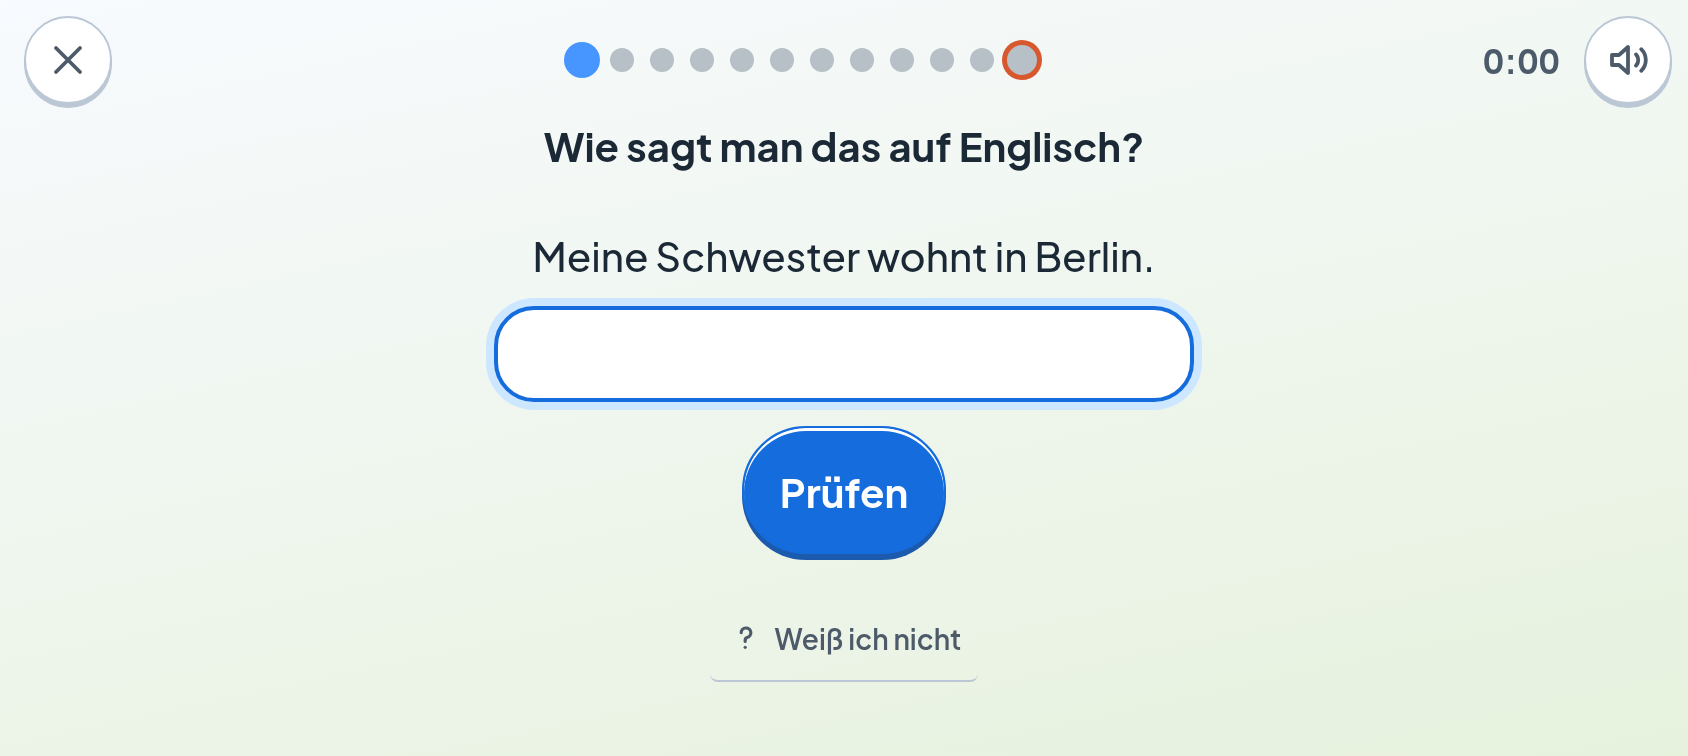
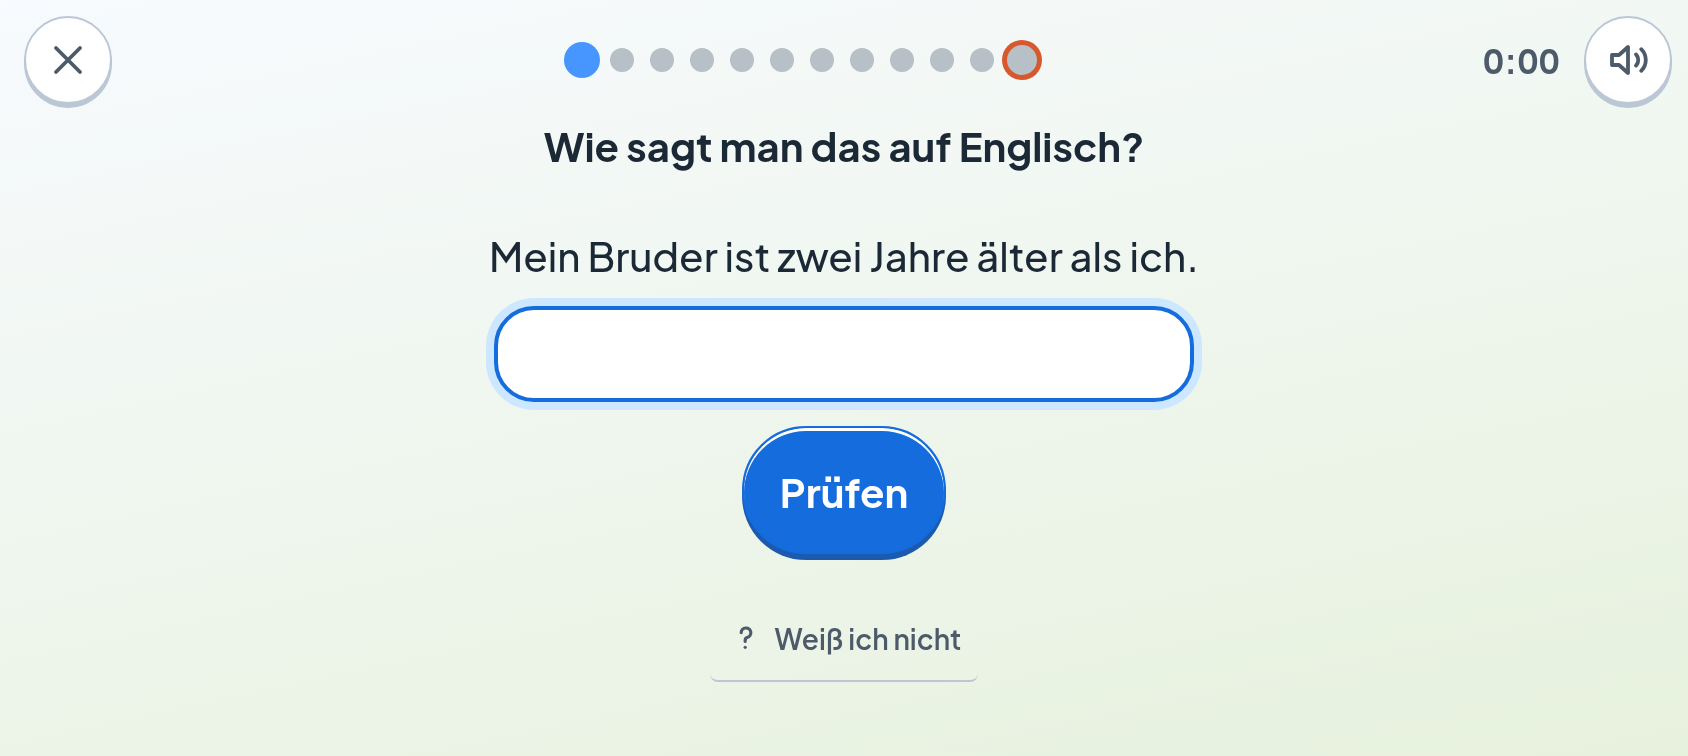
E17: hundert Wendungen, sechzig Diktatsaetze - und eine Zahl, die ich gestern falsch erklaert habe
DER VORRAT

60 Wendungen bei zwoelf Aufgaben je Sitzung sind fuenf Runden; danach
wiederholt sich alles. Vierzig dazu, ZEHN JE BEREICH - nicht vierzig
irgendwohin, denn die vier Bereiche muessen gleich stark bleiben, sonst
fragt die Ebene den vollsten am haeufigsten. Jetzt: 100 Wendungen, 25 je
Bereich, gut acht Runden.

Der Inhalt ist das, was ein Erwachsener auf einer Reise wirklich
braucht: Gleis und Anschluss, Zimmer frei, Taxi rufen, Speisekarte,
„Ich vertrage keine Nuesse", „Mir faellt das Wort gerade nicht ein".
Jede mit zwei bis drei gueltigen Fassungen.

DIE ZAHL, DIE ICH GESTERN FALSCH ERKLAERT HABE

In E16 stand: „Gemessen und nicht beanstandet: die 34 Diktatsaetze
liegen bei 8/10/7/9. Ungleich, aber die Auswahl ist es zu Recht - kurz
genug zum Diktieren ist kein Merkmal, das sich gleichmaessig verteilt."

Das war eine Erklaerung, keine Messung. Beim Aufstocken nachgezaehlt:
von den 66 damals nicht genommenen Wendungen halten ALLE 66 die
Neun-Woerter-Grenze. Der Laengenfilter hat also niemanden
ausgeschlossen; die Schieflage war gewachsen, nicht entschieden. Und der
Kommentar darueber behauptete seit I1 „je Themengebiet drei", waehrend
es 8, 10, 7 und 9 waren.

Eine plausible Erklaerung fuer eine Zahl ist das Gefaehrlichste, was man
einer Zahl antun kann: sie sieht danach geprueft aus. Jetzt sind es 15
je Bereich, und `inhalt` prueft die Gleichheit - bei den Wendungen wie
bei den Diktatsaetzen, beide mit eigener Gegenprobe.
[…]

Changed region(s): [[0.2773, 0.3042, 0.7085, 0.3651]]

diff --git a/src/inhalt/englisch.js b/src/inhalt/englisch.js
@@ -2860,13 +2860,132 @@ export const WENDUNGEN = [
               'Is there anything cheaper?'] },
   { id: 'w-nehmeich',   gebiet: '4.4', deutsch: 'Das nehme ich.',
     richtig: ["I'll take it.", 'I will take it.', "I'll take this one."] },
+
+  // --- E17: vierzig weitere Wendungen, zehn je Bereich -----------------
+  //
+  // Sechzig Wendungen bei zwoelf Aufgaben je Sitzung sind fuenf Runden;
+  // danach wiederholt sich alles. Mit hundert sind es gut acht.
+  //
+  // ZEHN JE BEREICH und nicht vierzig irgendwohin: die vier Bereiche
+  // muessen gleich stark bleiben, sonst fragt die Ebene den vollsten am
+  // haeufigsten - das prueft `inhalt` seit E16.
+
+  // --- 4.1 Familie und Freunde ---
+  { id: 'w-wiealtkinder', gebiet: '4.1', deutsch: 'Wie alt sind deine Kinder?',
+    richtig: ['How old are your children?', 'How old are the children?',
+              'How old are your kids?'] },
+  { id: 'w-sohnschule', gebiet: '4.1', deutsch: 'Mein Sohn geht noch zur Schule.',
+    richtig: ['My son is still at school.', 'My son still goes to school.'] },
+  { id: 'w-seltensehen', gebiet: '4.1', deutsch: 'Wir sehen uns leider selten.',
+    richtig: ['We do not see each other very often.',
+              "We don't see each other very often.",
+              'Unfortunately we rarely see each other.'] },
+  { id: 'w-altefreundin', gebiet: '4.1', deutsch: 'Sie ist eine alte Freundin von mir.',
+    richtig: ['She is an old friend of mine.', "She's an old friend of mine."] },
+  { id: 'w-zehnjahre', gebiet: '4.1', deutsch: 'Wir wohnen seit zehn Jahren hier.',
+    richtig: ['We have lived here for ten years.', "We've lived here for ten years.",
+              'We have been living here for ten years.'] },
+  { id: 'w-frauspaeter', gebiet: '4.1', deutsch: 'Meine Frau kommt später nach.',
+    richtig: ['My wife will join us later.', 'My wife is coming later.'] },
+  { id: 'w-geschwister', gebiet: '4.1', deutsch: 'Ich habe drei Geschwister.',
+    richtig: ['I have three brothers and sisters.', 'I have got three siblings.',
+              "I've got three siblings."] },
+  { id: 'w-grossefamilie', gebiet: '4.1', deutsch: 'Wir sind eine große Familie.',
+    richtig: ['We are a big family.', "We're a big family."] },
+  { id: 'w-bruderaelter', gebiet: '4.1', deutsch: 'Mein Bruder ist zwei Jahre älter als ich.',
+    richtig: ['My brother is two years older than me.',
+              'My brother is two years older than I am.'] },
+  { id: 'w-gutheim', gebiet: '4.1', deutsch: 'Kommt gut nach Hause.',
+    richtig: ['Get home safely.', 'Have a safe trip home.', 'Safe journey home.'] },
+
+  // --- 4.2 Sich verständigen ---
+  { id: 'w-namebuchstaben', gebiet: '4.2', deutsch: 'Wie schreibt man Ihren Namen?',
+    richtig: ['How do you spell your name?', 'How is your name spelled?'] },
+  { id: 'w-andersagen', gebiet: '4.2', deutsch: 'Können Sie das anders sagen?',
+    richtig: ['Could you say that in another way?', 'Can you put that differently?'] },
+  { id: 'w-jetztklar', gebiet: '4.2', deutsch: 'Jetzt verstehe ich, danke.',
+    richtig: ['Now I understand, thank you.', 'I see now, thanks.'] },
+  { id: 'w-wortfehlt', gebiet: '4.2', deutsch: 'Mir fällt das Wort gerade nicht ein.',
+    richtig: ['I cannot think of the word right now.',
+              "I can't think of the word at the moment."] },
+  { id: 'w-aussprache', gebiet: '4.2', deutsch: 'Wie spricht man das aus?',
+    richtig: ['How do you pronounce that?', 'How is that pronounced?'] },
+  { id: 'w-nichtsicher', gebiet: '4.2', deutsch: 'Ich bin mir nicht sicher.',
+    richtig: ['I am not sure.', "I'm not sure.", 'I am not certain.'] },
+  { id: 'w-lernenoch', gebiet: '4.2', deutsch: 'Ich lerne noch Englisch.',
+    richtig: ['I am still learning English.', "I'm still learning English."] },
+  { id: 'w-kurzwarten', gebiet: '4.2', deutsch: 'Können Sie kurz warten?',
+    richtig: ['Could you wait a moment, please?', 'Can you wait a second?'] },
+  { id: 'w-nichtgehoert', gebiet: '4.2', deutsch: 'Ich habe Sie nicht gehört.',
+    richtig: ['I did not hear you.', "I didn't hear you.",
+              'Sorry, I could not hear you.'] },
+  { id: 'w-sorichtig', gebiet: '4.2', deutsch: 'Ist das so richtig?',
+    richtig: ['Is that right?', 'Is this correct?'] },
+
+  // --- 4.3 Freizeit und unterwegs ---
+  { id: 'w-fahrkarte', gebiet: '4.3', deutsch: 'Wo kann ich eine Fahrkarte kaufen?',
+    richtig: ['Where can I buy a ticket?', 'Where do I get a ticket?'] },
+  { id: 'w-gleis', gebiet: '4.3', deutsch: 'Von welchem Gleis fährt der Zug?',
+    richtig: ['Which platform does the train leave from?',
+              'What platform does the train go from?'] },
+  { id: 'w-anschluss', gebiet: '4.3', deutsch: 'Wir haben den Anschluss verpasst.',
+    richtig: ['We have missed our connection.', "We've missed our connection."] },
+  { id: 'w-taxirufen', gebiet: '4.3', deutsch: 'Können Sie uns ein Taxi rufen?',
+    richtig: ['Could you call us a taxi?', 'Can you call a taxi for us, please?'] },
+  { id: 'w-museumauf', gebiet: '4.3', deutsch: 'Wann macht das Museum auf?',
+    richtig: ['When does the museum open?', 'What time does the museum open?'] },
+  { id: 'w-wieweit', gebiet: '4.3', deutsch: 'Wie weit ist es von hier?',
+    richtig: ['How far is it from here?', 'How far away is it?'] },
+  { id: 'w-regen', gebiet: '4.3', deutsch: 'Es soll morgen regnen.',
+    richtig: ['It is supposed to rain tomorrow.', "It's going to rain tomorrow.",
+              'They say it will rain tomorrow.'] },
+  { id: 'w-zimmerfrei', gebiet: '4.3', deutsch: 'Haben Sie noch ein Zimmer frei?',
+    richtig: ['Do you have a room available?', 'Have you got a room free?'] },
+  { id: 'w-parken', gebiet: '4.3', deutsch: 'Wo können wir hier parken?',
+    richtig: ['Where can we park here?', 'Is there somewhere to park here?'] },
+  { id: 'w-schoenertag', gebiet: '4.3', deutsch: 'Das war ein schöner Tag.',
+    richtig: ['That was a lovely day.', 'It was a nice day.',
+              'We had a lovely day.'] },
+
+  // --- 4.4 Einkaufen und Essen ---
+  { id: 'w-speisekarte', gebiet: '4.4', deutsch: 'Könnten wir die Karte haben?',
+    richtig: ['Could we have the menu, please?', 'Can we see the menu, please?'] },
+  { id: 'w-glaswasser', gebiet: '4.4', deutsch: 'Ein Glas Wasser, bitte.',
+    richtig: ['A glass of water, please.',
+              'Could I have a glass of water, please?'] },
+  { id: 'w-zusammen', gebiet: '4.4', deutsch: 'Wir zahlen zusammen.',
+    richtig: ["We'd like to pay together.", 'We will pay together.',
+              'One bill, please.'] },
+  { id: 'w-keinenuesse', gebiet: '4.4', deutsch: 'Ich vertrage keine Nüsse.',
+    richtig: ['I cannot eat nuts.', "I can't eat nuts.",
+              'I am allergic to nuts.'] },
+  { id: 'w-nachbestellen', gebiet: '4.4', deutsch: 'Könnten wir noch etwas bestellen?',
+    richtig: ['Could we order something else?', 'Can we order some more, please?'] },
+  { id: 'w-inblau', gebiet: '4.4', deutsch: 'Haben Sie das auch in Blau?',
+    richtig: ['Do you have this in blue?', 'Have you got this in blue?'] },
+  { id: 'w-passtnicht', gebiet: '4.4', deutsch: 'Das passt mir leider nicht.',
+    richtig: ['It does not fit me.', "It doesn't fit.",
+              'I am afraid it does not fit.'] },
+  { id: 'w-geschenkpapier', gebiet: '4.4', deutsch: 'Können Sie das als Geschenk einpacken?',
+    richtig: ['Could you gift-wrap it, please?', 'Can you wrap it as a present?'] },
+  { id: 'w-wielangeauf', gebiet: '4.4', deutsch: 'Bis wann haben Sie geöffnet?',
+    richtig: ['How long are you open?', 'What time do you close?'] },
+  { id: 'w-barzahlen', gebiet: '4.4', deutsch: 'Ich zahle bar.',
+    richtig: ["I'll pay cash.", 'I will pay in cash.', 'Cash, please.'] },
 ];
 
-/* Die Hoersaetze (E12) - je Themengebiet drei, und JEDER ist die erste
+/* Die Hoersaetze (E12) - fuenfzehn je Bereich, und JEDER ist die erste
    zugelassene Antwort einer Wendung. Erfunden wird hier nichts: die
    Kennung zeigt auf die Wendung, der Satz wird von dort geholt. So kann
    E12 nicht von E11 abweichen, und wer eine Wendung umformuliert, aendert
-   den Hoersatz mit. */
+   den Hoersatz mit.
+   
+   „Je Themengebiet drei" stand hier bis E17 und stimmte seit I1 nicht
+   mehr: es waren 8, 10, 7 und 9. Nachgezaehlt bei der Aufstockung, und
+   die Schieflage war kein Ergebnis der Neun-Woerter-Grenze - ALLE 66
+   damals nicht genommenen Wendungen halten sie. Sie war gewachsen, nicht
+   entschieden. Jetzt sind es fuenfzehn je Bereich, und `inhalt` prueft
+   die Gleichheit, damit es beim naechsten Nachtragen auffaellt. */
 export const HOERSAETZE = [
   'w-vorstellen', 'w-wiegehts', 'w-freutmich',
   'w-nochmal', 'w-verstehe', 'w-wieheisst',
@@ -2883,6 +3002,15 @@ export const HOERSAETZE = [
   'w-wetter', 'w-spiel', 'w-museum', 'w-dauer',
   'w-bestellen', 'w-vegetarisch', 'w-geschmeckt', 'w-guenstiger',
   'w-nehmeich', 'w-quittung',
+  /* E17: sechsundzwanzig dazu, damit es fuenfzehn je Bereich sind. */
+  'w-wiealtkinder', 'w-sohnschule', 'w-altefreundin', 'w-zehnjahre',
+  'w-geschwister', 'w-grossefamilie', 'w-gutheim',
+  'w-namebuchstaben', 'w-aussprache', 'w-nichtsicher', 'w-lernenoch',
+  'w-sorichtig',
+  'w-fahrkarte', 'w-gleis', 'w-anschluss', 'w-taxirufen', 'w-museumauf',
+  'w-wieweit', 'w-zimmerfrei', 'w-parken',
+  'w-speisekarte', 'w-glaswasser', 'w-keinenuesse', 'w-nachbestellen',
+  'w-inblau', 'w-wielangeauf',
 ];
 
 /**

diff --git a/docs/Lernkiste-BACKLOG.md b/docs/Lernkiste-BACKLOG.md
@@ -7611,3 +7611,54 @@ keine Zahl — vier gleich große Bereiche, wie viele es auch sind (heute
 der Wendungen nach Länge und liegen bei 8 · 10 · 7 · 9. Ungleich, aber
 die Auswahl ist es zu Recht — kurz genug zum Diktieren ist kein Merkmal,
 das sich gleichmäßig verteilt.
+
+---
+
+## E17 · Hundert Wendungen, sechzig Diktatsätze — und eine Zahl, die ich gestern falsch erklärt habe
+
+**Der Vorrat.** 60 Wendungen bei zwölf Aufgaben je Sitzung sind fünf
+Runden; danach wiederholt sich alles. Vierzig dazu, **zehn je Bereich**
+— nicht vierzig irgendwohin, denn die vier Bereiche müssen gleich stark
+bleiben, sonst fragt die Ebene den vollsten am häufigsten. Jetzt: 100
+Wendungen, 25 je Bereich, gut acht Runden.
+
+Der Inhalt ist das, was ein Erwachsener auf einer Reise wirklich braucht:
+Gleis und Anschluss, Zimmer frei, Taxi rufen, Speisekarte, „Ich vertrage
+keine Nüsse", „Mir fällt das Wort gerade nicht ein". Jede mit zwei bis
+drei gültigen Fassungen — das ist die Zusage der Ebene, und das Tor
+rechnet nach, dass keine Fassung zwei Aufgaben beantwortet.
+
+### Die Zahl, die ich gestern falsch erklärt habe
+
+In E16 stand hier: *„Gemessen und nicht beanstandet: die 34 Diktatsätze
+liegen bei 8 · 10 · 7 · 9. Ungleich, aber die Auswahl ist es zu Recht —
+kurz genug zum Diktieren ist kein Merkmal, das sich gleichmäßig
+verteilt."*
+
+**Das war eine Erklärung, keine Messung.** Beim Aufstocken habe ich
+nachgezählt: von den 66 damals nicht genommenen Wendungen halten **alle
+66** die Neun-Wörter-Grenze. Der Längenfilter hat also niemanden
+ausgeschlossen; die Schieflage war gewachsen, nicht entschieden. Und die
+Zeile darüber im Quelltext behauptete seit I1 „je Themengebiet drei",
+während es 8, 10, 7 und 9 waren.
+
+Eine plausible Erklärung für eine Zahl ist das Gefährlichste, was man
+einer Zahl antun kann: sie sieht danach geprüft aus. Jetzt sind es **15
+je Bereich**, und `inhalt` prüft die Gleichheit — bei den Wendungen wie
+bei den Diktatsätzen, beide mit eigener Gegenprobe.
+
+### Stand nach dieser Runde
+
+| | vorher | jetzt | Runden bei 12 Aufgaben |
+|---|---|---|---|
+| Wendungen (E11) | 60 | **100** | 5,0 → **8,3** |
+| Diktatsätze (E12) | 34 | **60** | 2,8 → **5,0** |
+
+**Was auffiel und nicht gemacht wurde:** alle 100 Wendungen wären kurz
+genug fürs Diktat. Die Auswahl könnte also eine Ableitung sein statt
+einer Liste — das wäre nach Regel 6 sauberer, denn was zweimal dasteht,
+veraltet einmal. Es würde aber zwei
+bestehende Prüfungen bedeutungslos machen („alle aus den Wendungen", „die
+Neun-Wörter-Grenze"), denn eine Ableitung kann sie nicht verletzen. Eine
+Prüfung gegen eine Ableitung ist keine. Solange die Liste von Hand
+gepflegt wird, prüfen die beiden etwas Echtes; darum bleibt sie.
